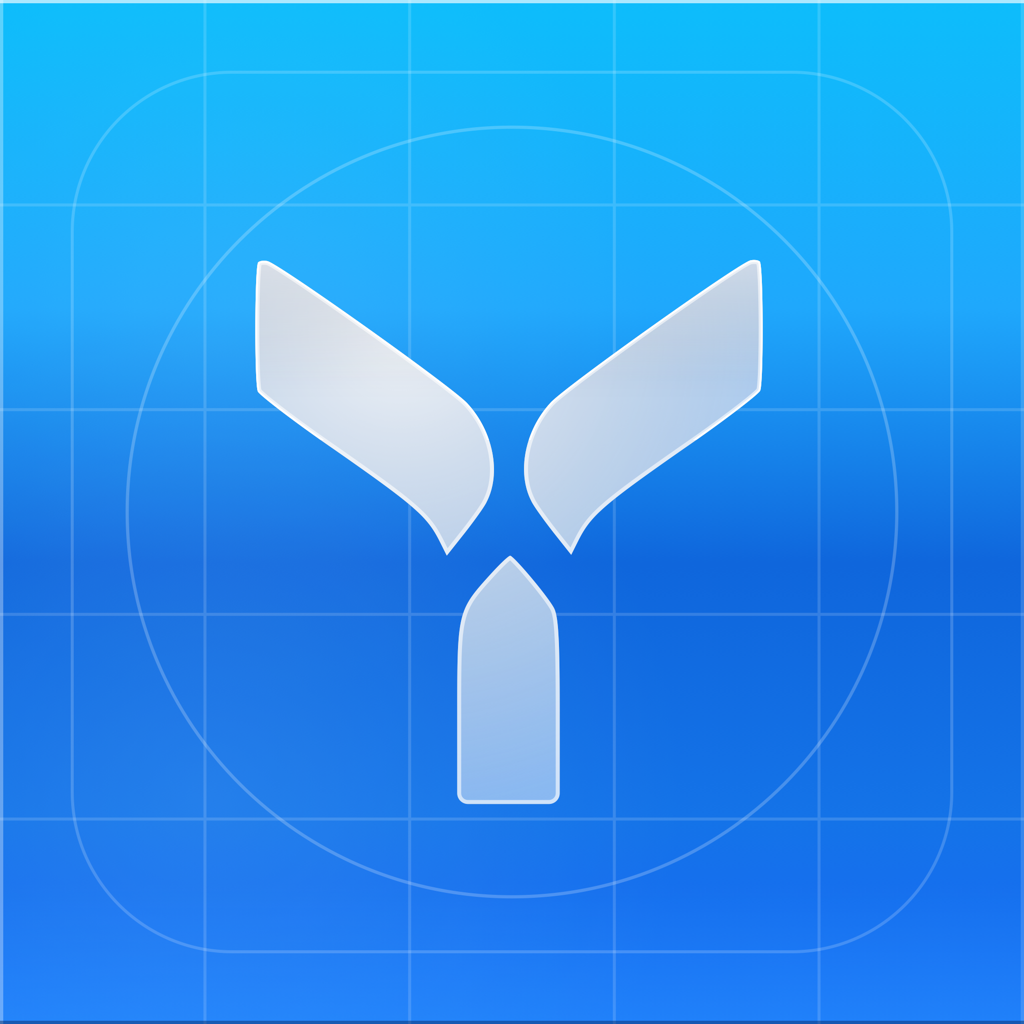
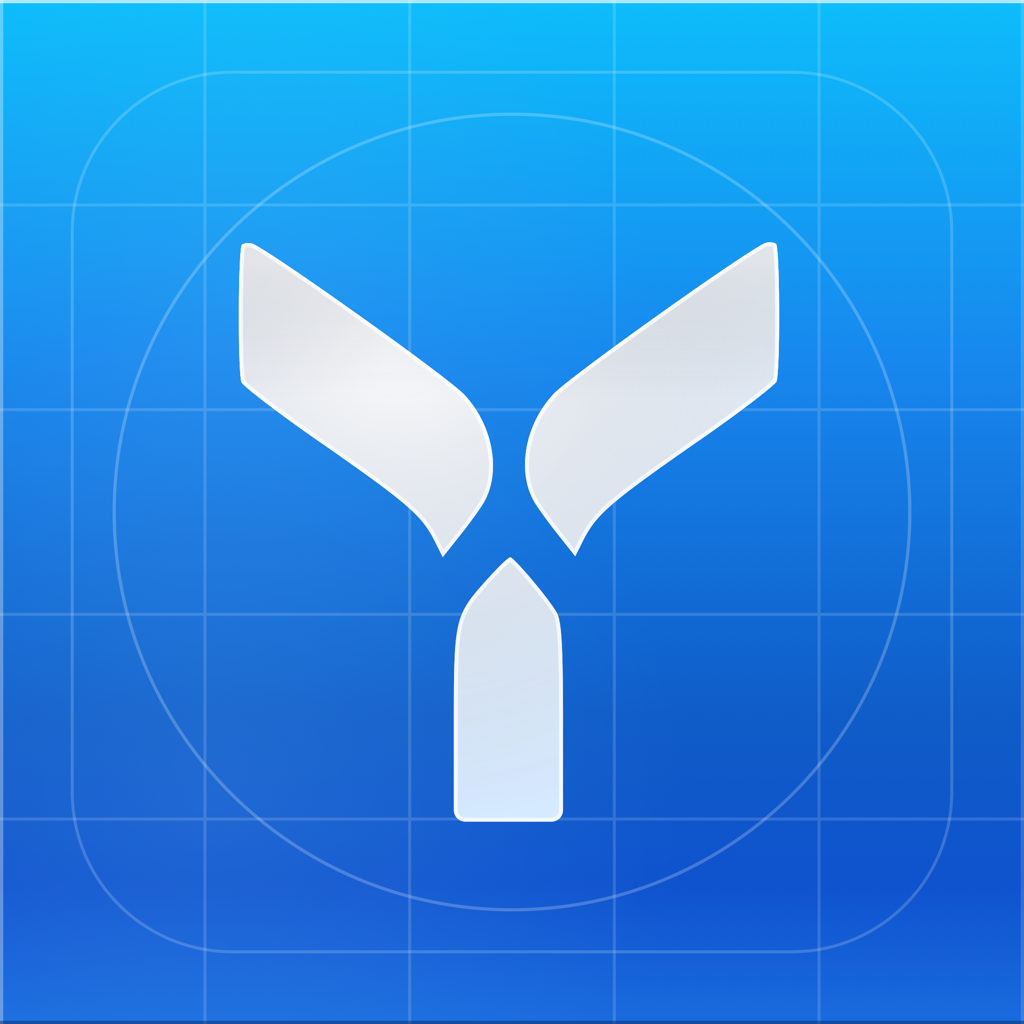
refine(brand): bigger Y for App Store-level presence
The mark read timid next to the reference glyph. Scale 1.08 to 1.15 and
grow the guide circle to match so the shoulders still clear it.

diff --git a/assets/beta/generate-beta-icon.swift b/assets/beta/generate-beta-icon.swift
@@ -17,7 +17,7 @@ struct Palette {
 }
 
 // Light: exact Xcode 26 stop colors.
-let light = Palette(top: 0x0DBDFB, upperMid: 0x1FA8FC, lowerMid: 0x1473E8, bottom: 0x1868F8, mark: 0xFFFFFF)
+let light = Palette(top: 0x0DBDFB, upperMid: 0x1788EE, lowerMid: 0x0F5CC8, bottom: 0x0F4BD2, mark: 0xFFFFFF)
 
 func cg(_ hex: UInt32, _ a: CGFloat = 1) -> CGColor {
   CGColor(srgbRed: CGFloat((hex >> 16) & 0xFF) / 255, green: CGFloat((hex >> 8) & 0xFF) / 255, blue: CGFloat(hex & 0xFF) / 255, alpha: a)
@@ -74,7 +74,7 @@ let markPath: CGPath = {
   return p
 }()
 
-let markScale: CGFloat = 1.08
+let markScale: CGFloat = 1.15
 let markCenter = CGPoint(x: 235, y: 252)
 func addMark(to ctx: CGContext) {
   var t = CGAffineTransform(translationX: 274 + markCenter.x * (1 - markScale), y: 280 + markCenter.y * (1 - markScale)).scaledBy(x: markScale, y: markScale)
@@ -93,7 +93,7 @@ func drawIcon(_ p: Palette, name: String) {
 
   // Full-bleed square gradient (the dock supplies the mask).
   let stops = [cg(p.top), cg(p.upperMid), cg(p.lowerMid), cg(p.bottom)] as CFArray
-  if let g = CGGradient(colorsSpace: cs, colors: [cg(p.top), cg(p.upperMid), cg(0x0F66DC), cg(p.lowerMid), cg(p.bottom)] as CFArray, locations: [0, 0.3, 0.55, 0.8, 1]) {
+  if let g = CGGradient(colorsSpace: cs, colors: [cg(p.top), cg(p.upperMid), cg(p.lowerMid), cg(p.bottom)] as CFArray, locations: [0, 0.35, 0.7, 1]) {
     ctx.drawLinearGradient(g, start: CGPoint(x: 0, y: 0), end: CGPoint(x: 0, y: D), options: [.drawsBeforeStartLocation, .drawsAfterEndLocation])
   }
 
@@ -122,7 +122,7 @@ func drawIcon(_ p: Palette, name: String) {
   // Concentric guide circles
   ctx.setLineWidth(3.2)
   ctx.setStrokeColor(cg(0xFFFFFF, 0.22))
-  ctx.strokeEllipse(in: CGRect(x: 512 - 385, y: 512 - 385, width: 770, height: 770))
+  ctx.strokeEllipse(in: CGRect(x: 512 - 398, y: 512 - 398, width: 796, height: 796))
   // Squircle inset guide
   ctx.setLineWidth(3)
   ctx.setStrokeColor(cg(0xFFFFFF, 0.18))
@@ -147,10 +147,10 @@ func drawIcon(_ p: Palette, name: String) {
   ctx.setShadow(offset: CGSize(width: 8, height: -18), blur: 44, color: cg(0x021233, 0.33))
   addMark(to: ctx)
   ctx.clip()
-  if let g = CGGradient(colorsSpace: cs, colors: [cg(0xACD2FA), cg(0x8AB9F2)] as CFArray, locations: [0, 1]) {
+  if let g = CGGradient(colorsSpace: cs, colors: [cg(0xEFF7FF), cg(0xD5E9FF)] as CFArray, locations: [0, 1]) {
     ctx.drawLinearGradient(g, start: CGPoint(x: 0, y: 260), end: CGPoint(x: 0, y: 805), options: [.drawsBeforeStartLocation, .drawsAfterEndLocation])
   }
-  if let g = CGGradient(colorsSpace: cs, colors: [cg(0xFFFFFF, 0.9), cg(0xFFFFFF, 0)] as CFArray, locations: [0, 1]) {
+  if let g = CGGradient(colorsSpace: cs, colors: [cg(0xFFFFFF, 1.0), cg(0xFFFFFF, 0)] as CFArray, locations: [0, 1]) {
     ctx.drawRadialGradient(g, startCenter: CGPoint(x: 400, y: 330), startRadius: 0, endCenter: CGPoint(x: 400, y: 330), endRadius: 480, options: [])
   }
   if let g = CGGradient(colorsSpace: cs, colors: [cg(0xFFFFFF, 0.55), cg(0xFFFFFF, 0)] as CFArray, locations: [0, 1]) {
@@ -168,7 +168,7 @@ func drawIcon(_ p: Palette, name: String) {
   ctx.strokePath()
   ctx.restoreGState()
   addMark(to: ctx)
-  ctx.setStrokeColor(cg(0xFFFFFF, 0.60))
+  ctx.setStrokeColor(cg(0xFFFFFF, 0.70))
   ctx.setLineWidth(8)
   ctx.strokePath()
   ctx.restoreGState()
